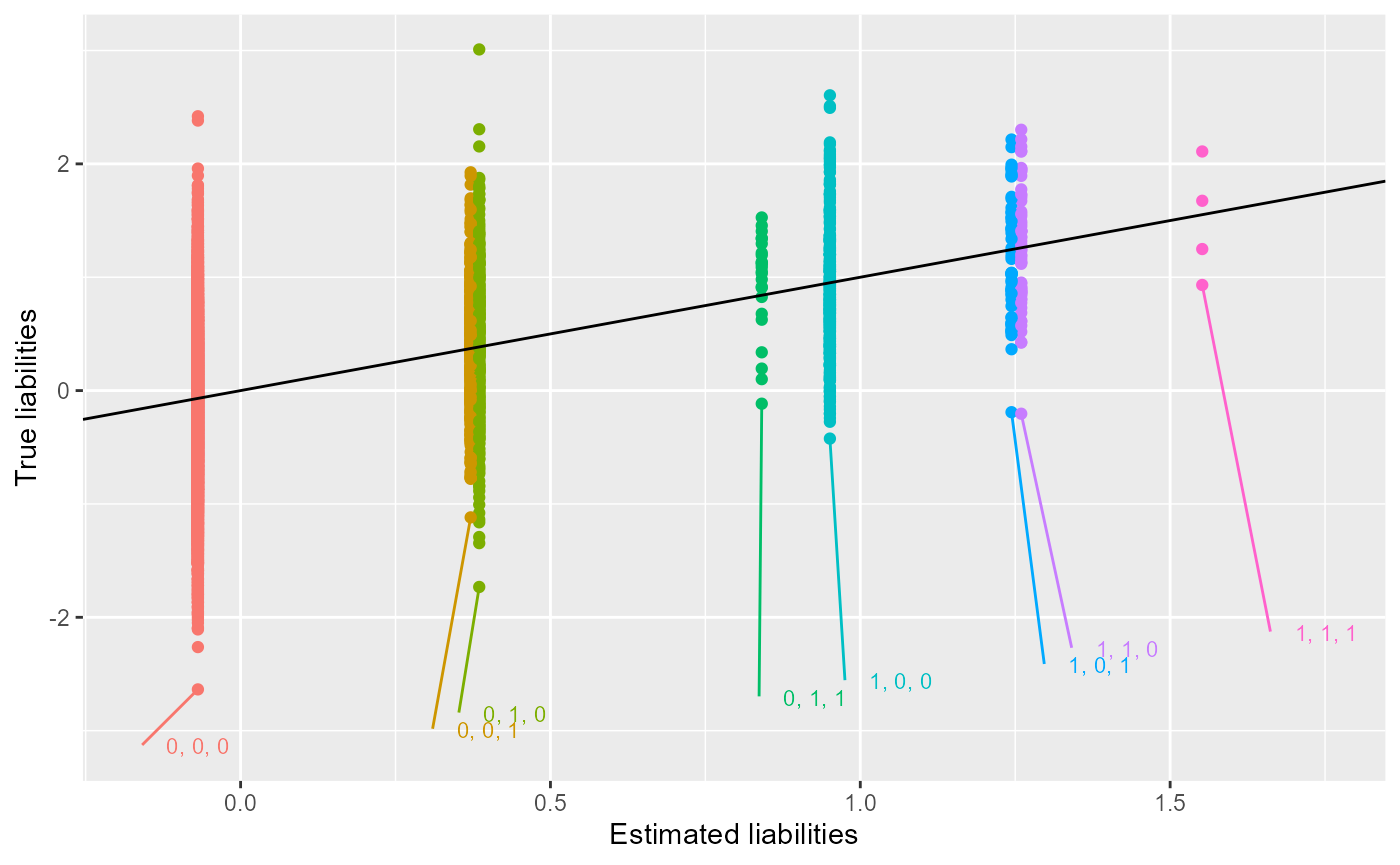
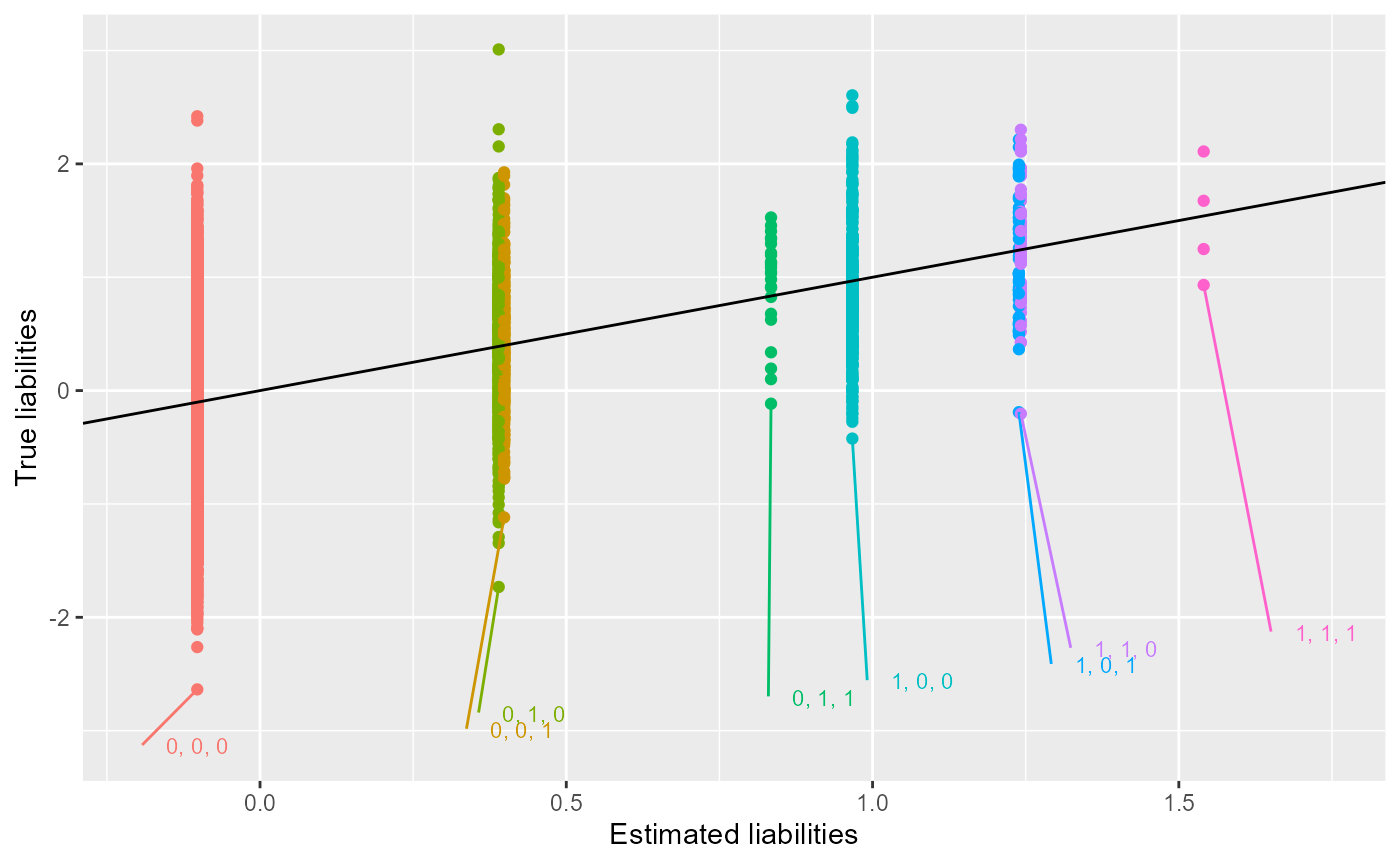
build_site as normal

diff --git a/docs/articles/Gibbs-sampler.html b/docs/articles/Gibbs-sampler.html
@@ -91,19 +91,29 @@ iteratively. The obtained phenotypes of family members can be
 implemented in the model by sampling from a truncated normal
 distribution. To clarify if a family member is a case we know that the
 liability of the family member is above a threshold T, given a
-prevalence K. To sample from a a truncated normal distribution we sample
-a value from one of the two intervals shown below. <span class="math display">\[
-T = \Phi^{-1}(1-K) \\
-L_p \sim N(\mu_p, \sigma_p) \\
+prevalence K. We calculate the threshold given the standard normal
+distribution.</p>
+<p><span class="math display">\[
+T = \Phi^{-1}(1-K)
+\]</span> The liability of person i is given by the conditional
+distribution.</p>
+<p><span class="math display">\[
+L_{p_i} \mid L_{p_1}, \ldots, L_{p_{i-1}}, L_{p_{i+1}}, \ldots,  L_{p_N}
+\sim N(\mu_p, \sigma_p)
+\]</span> Using this we can sample from a truncated normal distribution.
+Given the distribution of <span class="math inline">\(L_{p_i}\)</span>
+we write the following intervals. <span class="math display">\[
+P(L_{p_i} \leq T \mid L_{p_1}, \ldots, L_{p_{i-1}}, L_{p_{i+1}},
+\ldots,  L_{p_N}) = F_{L_{p_i}}(T) \\
 \Downarrow
 \\
-P(L_p \leq T) = F_{L_p}(T) \\
-\Downarrow
-\\
-\text{if p is case}: p_{l_p} \in [F_{l_p}(T) , 1 ]\\
-\text{else}: p_{l_p} \in [0, F_{l_p}(T)] \\
-\]</span> Now we sample a value <span class="math inline">\(p_{lp}\)</span> uniformly from one of the two
-intervals given the family members case. To get a sample for <span class="math inline">\(l_p\)</span> we set <span class="math inline">\(l_p = F_{L_p}^{-1}(p_{lp})\)</span>.</p>
+\text{if p is case}: p_{l_{p_i}} \in [F_{L_{p_i}}(T) , 1 ]\\
+\text{else}: p_{l_{p_i}} \in [0,F_{L_{p_i}}(T)] \\
+\]</span></p>
+<p>Now we sample a value <span class="math inline">\(p_{lp}\)</span>
+uniformly from one of the two intervals given the family members case.
+To get a sample for <span class="math inline">\(l_p\)</span> we set
+<span class="math inline">\(l_p = F_{L_p}^{-1}(p_{lp})\)</span>.</p>
 <p>Using Monte Carlo integration we find the conditional distribution of
 each liability. Using the assumption at liabilities follow a normal
 distribution where <span class="math inline">\(l_g\sim\mathcal{N}(0,h^2)\)</span>, <span class="math inline">\(l_e\sim\mathcal{N}(0,1-h^2)\)</span> and <span class="math inline">\(l_{full} = l_g+l_e \sim\mathcal{N}(0,1)\)</span>
@@ -174,39 +184,39 @@ non truncated data using a heritability of 0.5 and one sibling.</p>
 <caption>Covariance Matrix</caption>
 <tbody>
 <tr class="odd">
-<td align="right">0.51</td>
-<td align="right">0.51</td>
-<td align="right">0.26</td>
-<td align="right">0.24</td>
+<td align="right">0.50</td>
+<td align="right">0.50</td>
 <td align="right">0.25</td>
+<td align="right">0.26</td>
+<td align="right">0.26</td>
 </tr>
 <tr class="even">
-<td align="right">0.51</td>
-<td align="right">1.00</td>
-<td align="right">0.27</td>
-<td align="right">0.24</td>
-<td align="right">0.25</td>
-</tr>
-<tr class="odd">
-<td align="right">0.26</td>
-<td align="right">0.27</td>
+<td align="right">0.50</td>
 <td align="right">1.01</td>
-<td align="right">0.00</td>
 <td align="right">0.25</td>
-</tr>
-<tr class="even">
-<td align="right">0.24</td>
-<td align="right">0.24</td>
-<td align="right">0.00</td>
-<td align="right">1.00</td>
-<td align="right">0.24</td>
+<td align="right">0.26</td>
+<td align="right">0.25</td>
 </tr>
 <tr class="odd">
 <td align="right">0.25</td>
 <td align="right">0.25</td>
-<td align="right">0.25</td>
-<td align="right">0.24</td>
 <td align="right">1.01</td>
+<td align="right">0.02</td>
+<td align="right">0.26</td>
+</tr>
+<tr class="even">
+<td align="right">0.26</td>
+<td align="right">0.26</td>
+<td align="right">0.02</td>
+<td align="right">0.97</td>
+<td align="right">0.26</td>
+</tr>
+<tr class="odd">
+<td align="right">0.26</td>
+<td align="right">0.25</td>
+<td align="right">0.26</td>
+<td align="right">0.26</td>
+<td align="right">1.00</td>
 </tr>
 </tbody>
 </table>

diff --git a/docs/articles/LT-FH.html b/docs/articles/LT-FH.html
@@ -159,7 +159,7 @@ subjects genetic liabilities as a new column.</p>
 <td align="center">-0.34</td>
 <td align="center">-0.71</td>
 <td align="center">0</td>
-<td align="center">-0.12</td>
+<td align="center">-0.13</td>
 <td align="center">0</td>
 <td align="center">0</td>
 <td align="center">0</td>
@@ -169,7 +169,7 @@ subjects genetic liabilities as a new column.</p>
 <td align="center">1.43</td>
 <td align="center">0.49</td>
 <td align="center">0</td>
-<td align="center">0.32</td>
+<td align="center">0.29</td>
 <td align="center">0</td>
 <td align="center">0</td>
 <td align="center">1</td>
@@ -179,7 +179,7 @@ subjects genetic liabilities as a new column.</p>
 <td align="center">-1.08</td>
 <td align="center">-0.34</td>
 <td align="center">0</td>
-<td align="center">-0.12</td>
+<td align="center">-0.13</td>
 <td align="center">0</td>
 <td align="center">0</td>
 <td align="center">0</td>
@@ -189,7 +189,7 @@ subjects genetic liabilities as a new column.</p>
 <td align="center">1.27</td>
 <td align="center">0.58</td>
 <td align="center">0</td>
-<td align="center">-0.12</td>
+<td align="center">-0.13</td>
 <td align="center">0</td>
 <td align="center">0</td>
 <td align="center">0</td>
@@ -199,7 +199,7 @@ subjects genetic liabilities as a new column.</p>
 <td align="center">0.31</td>
 <td align="center">1.01</td>
 <td align="center">0</td>
-<td align="center">0.31</td>
+<td align="center">0.33</td>
 <td align="center">1</td>
 <td align="center">0</td>
 <td align="center">0</td>
@@ -209,7 +209,7 @@ subjects genetic liabilities as a new column.</p>
 <td align="center">-0.51</td>
 <td align="center">0.13</td>
 <td align="center">0</td>
-<td align="center">-0.12</td>
+<td align="center">-0.13</td>
 <td align="center">0</td>
 <td align="center">0</td>
 <td align="center">0</td>
@@ -219,7 +219,7 @@ subjects genetic liabilities as a new column.</p>
 <td align="center">0.32</td>
 <td align="center">0.10</td>
 <td align="center">0</td>
-<td align="center">-0.12</td>
+<td align="center">-0.13</td>
 <td align="center">0</td>
 <td align="center">0</td>
 <td align="center">0</td>
@@ -239,7 +239,7 @@ subjects genetic liabilities as a new column.</p>
 <td align="center">0.23</td>
 <td align="center">-0.26</td>
 <td align="center">0</td>
-<td align="center">-0.12</td>
+<td align="center">-0.13</td>
 <td align="center">0</td>
 <td align="center">0</td>
 <td align="center">0</td>
@@ -249,7 +249,7 @@ subjects genetic liabilities as a new column.</p>
 <td align="center">-1.47</td>
 <td align="center">-0.98</td>
 <td align="center">0</td>
-<td align="center">-0.12</td>
+<td align="center">-0.13</td>
 <td align="center">0</td>
 <td align="center">0</td>
 <td align="center">0</td>
